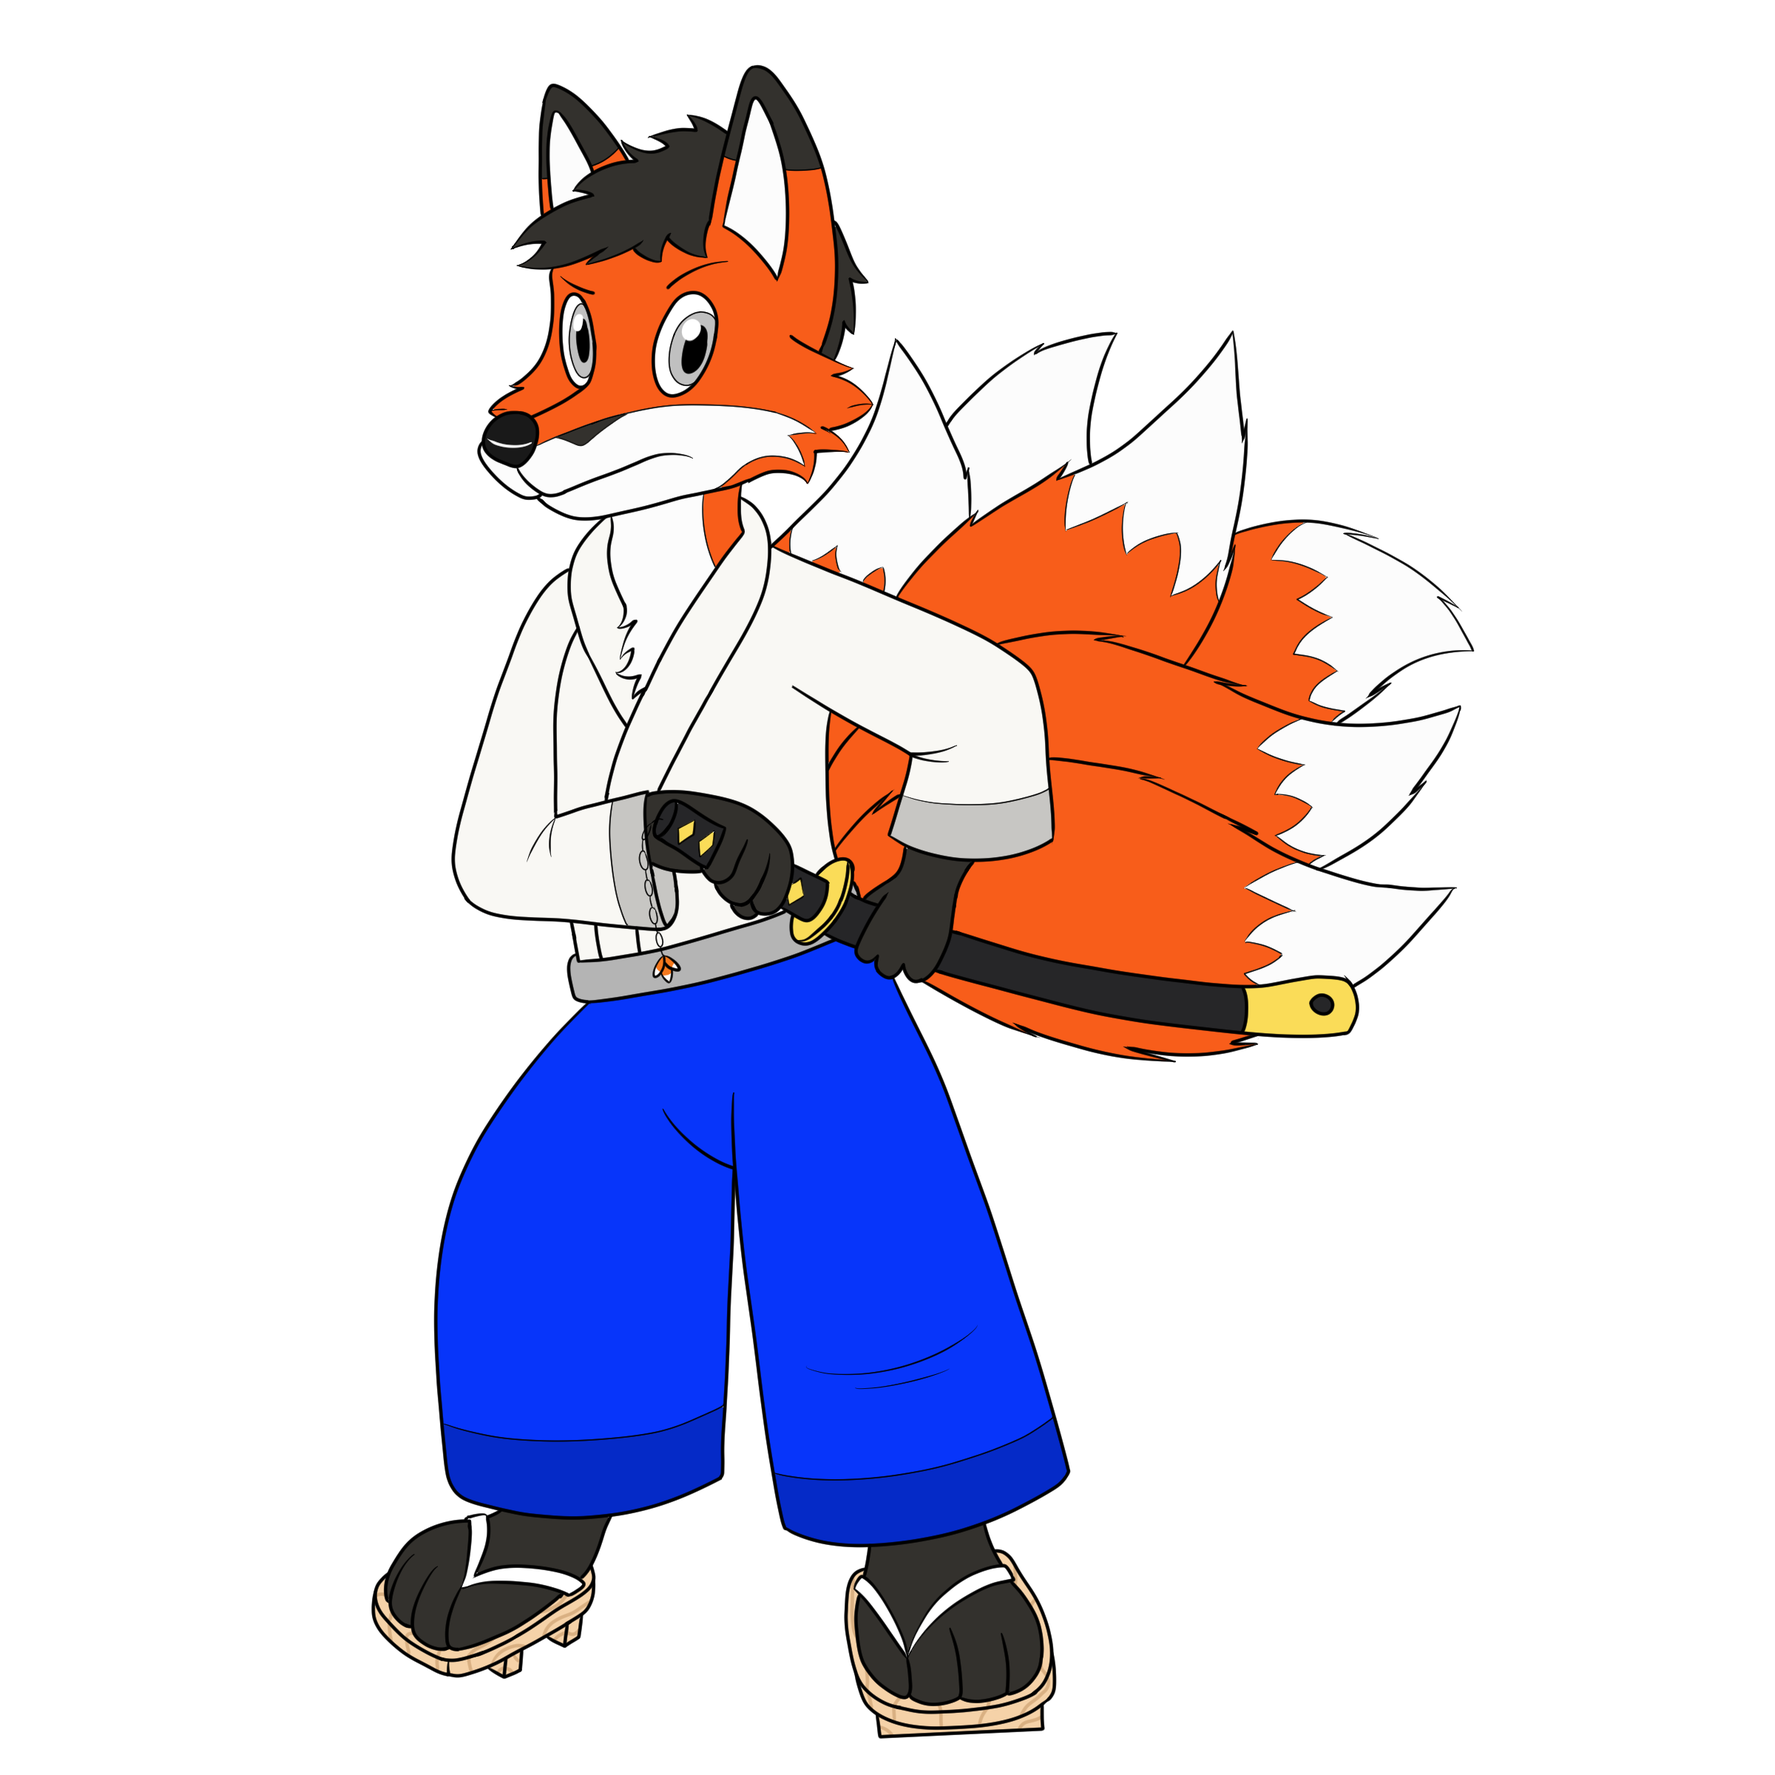
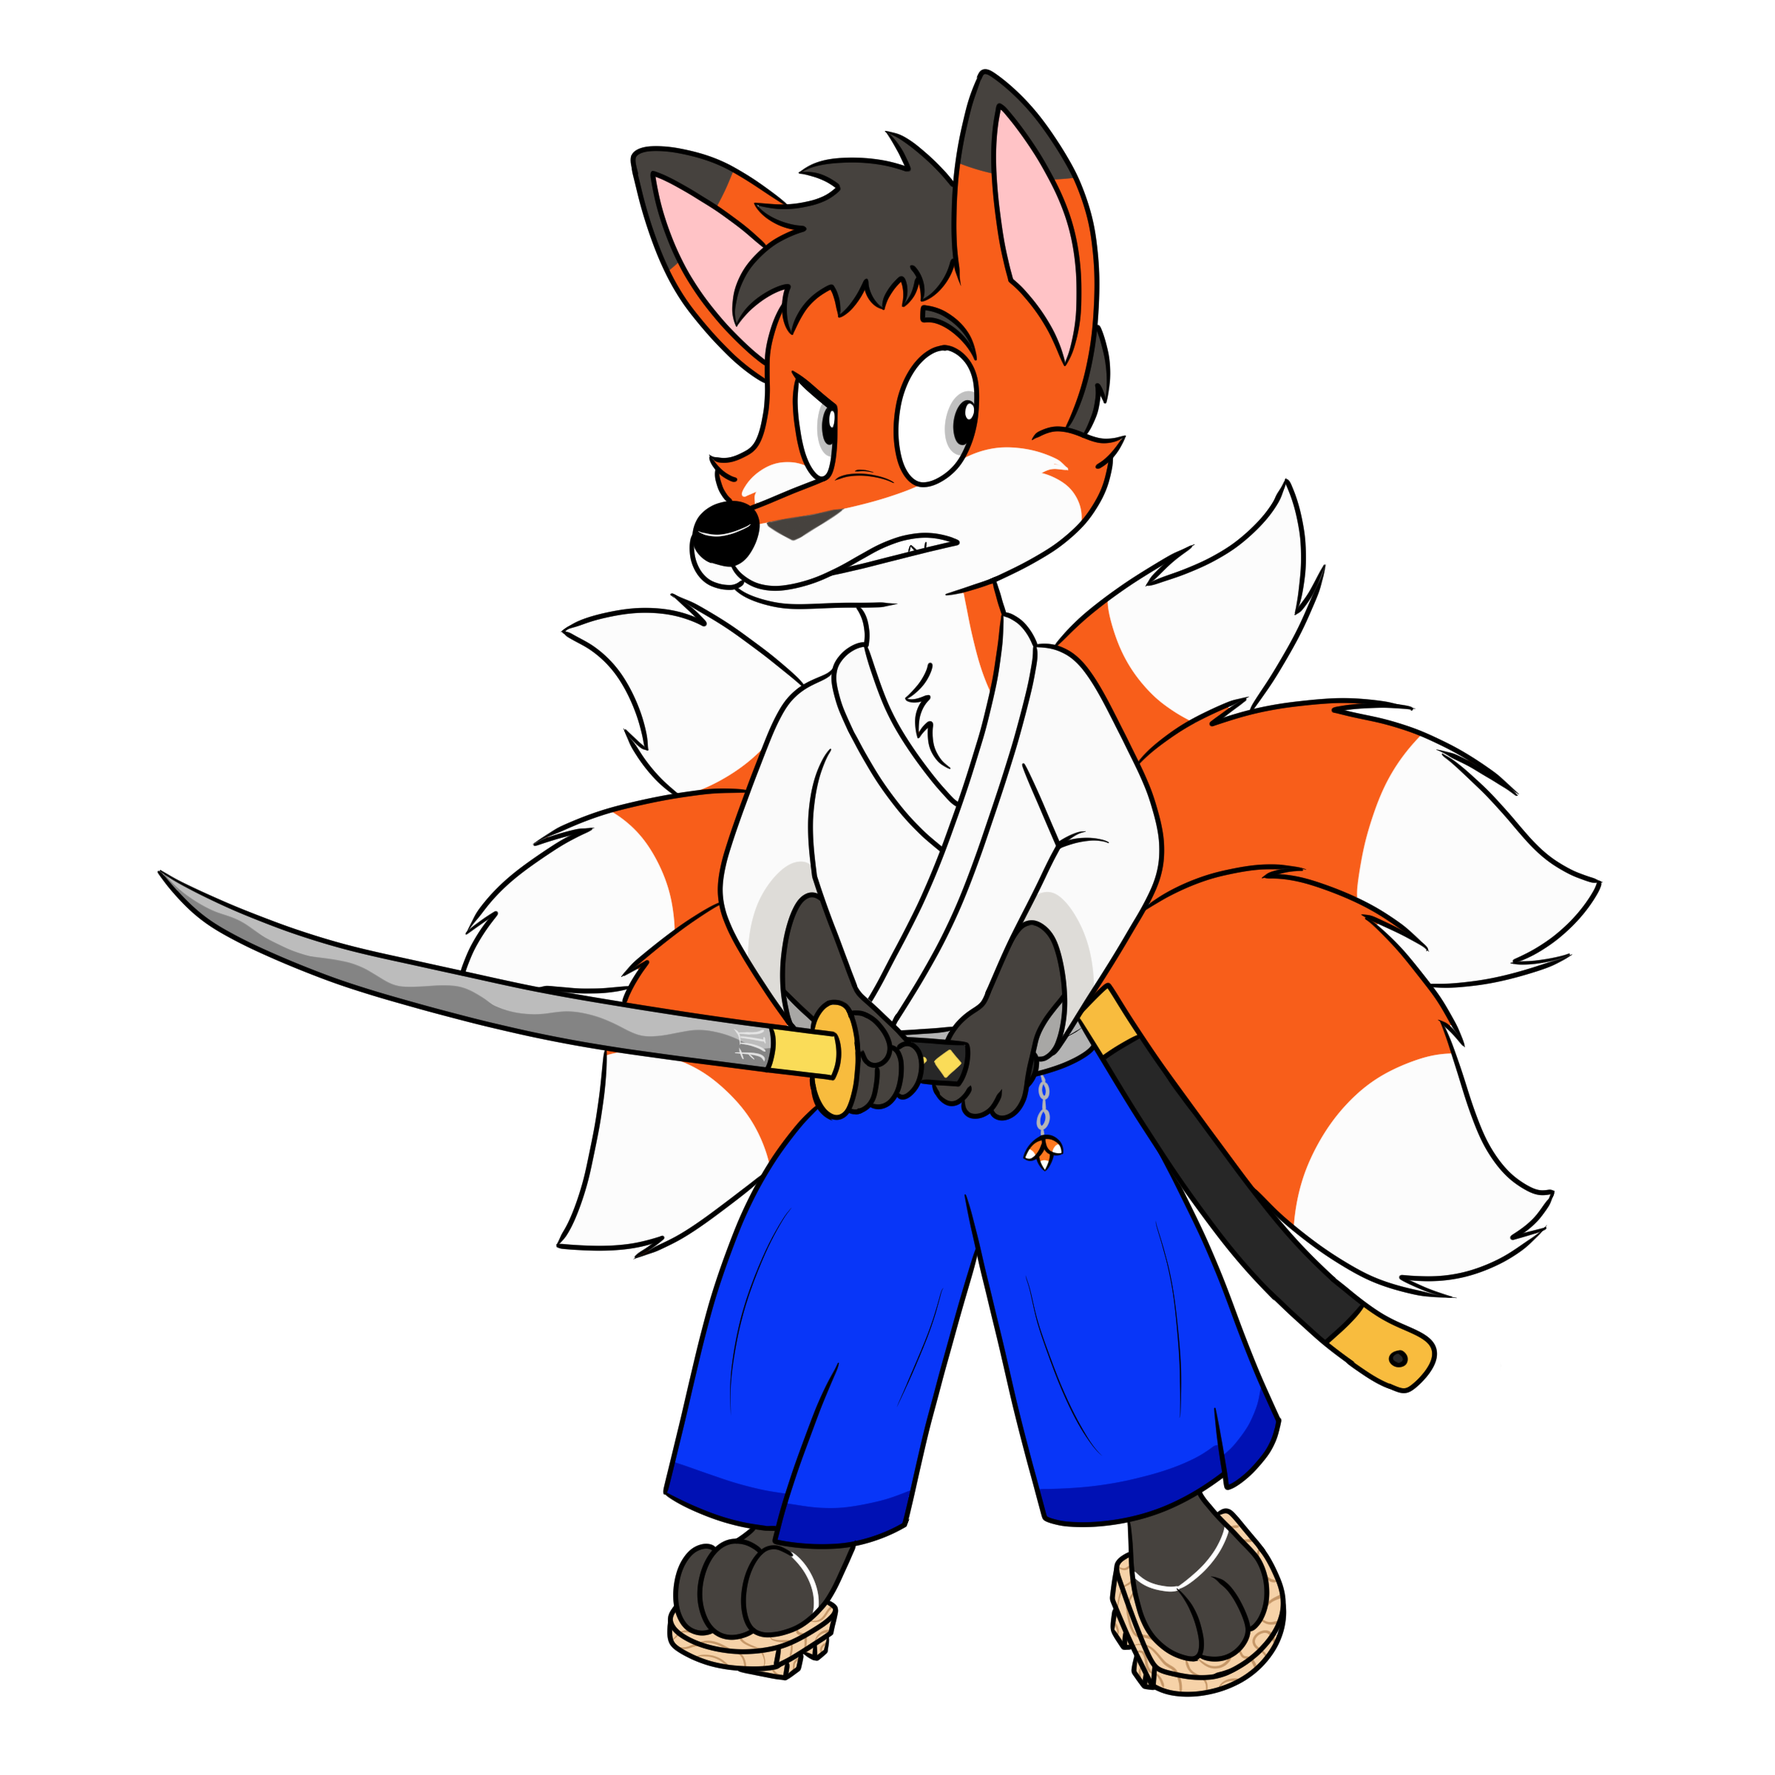
Added character page for Foxblade and fixed an issue on Pyrrhe's character page

diff --git a/src/main/resources/html/characters/foxblade.html b/src/main/resources/html/characters/foxblade.html
@@ -1,0 +1,195 @@
+<!DOCTYPE html>
+<html>
+<head lang="en">
+    <title>Meet Foxblade - Chase the Fox</title>
+    <meta http-equiv="content-type" content="text/html; charset=UTF-8">
+    <link rel="shortcut icon" href="../favicon.ico" type="image/x-icon">
+    <link rel="icon" href="../favicon.ico" type="image/x-icon">
+    <link rel="stylesheet" type="text/css" href="../../css/main_theme.css">
+    <link rel="stylesheet" type="text/css" href="../../css/chase_style.css">
+    <link rel="stylesheet" type="text/css" href="../../css/speech_bubble.css">
+    <link href='http://fonts.googleapis.com/css?family=Lobster' rel='stylesheet' type='text/css'>
+    <link href='http://fonts.googleapis.com/css?family=Ubuntu' rel='stylesheet' type='text/css'>
+    <script src="https://ajax.googleapis.com/ajax/libs/jquery/2.1.4/jquery.min.js" type="text/javascript"></script>
+    <script src="../../js/sidebar.js" type="text/javascript"></script>
+    <script src="../../js/character_select.js" type="text/javascript"></script>
+</head>
+<body>
+<div id="header">
+    <div id="header-text">
+        <img src="../../img/c-tail-transparent.png" alt="C" height="50px"><span class="white-text">hase the Fox</span>
+    </div>
+    <div id="header-links">
+        <ul>
+            <li><a href="https://twitter.com/ChaseTheRedFox"><img src="../../img/twitter_logo.png" alt="Twitter"></a></li>
+            <li><a href="http://www.furaffinity.net/user/chasereynard/"><img src="../../img/fa_logo.png" alt="FurAffinity"></a></li>
+            <li><a href="https://chasereynard.deviantart.com/"><img src="../../img/da_logo.png" alt="DeviantArt"></a></li>
+        </ul>
+    </div>
+    <div id="header-img">
+        <a href="../index.html">
+            <img class="circular-image" src="../../img/chase_header.jpg" alt="Home">
+        </a>
+    </div>
+    <div id="navigation">
+        <ul>
+            <li><a class="nav-button" href="../characters/characters.html">Characters</a></li>
+            <li><a class="nav-button" href="../world/index.html">World</a></li>
+            <li><a class="nav-button" href="../fun/index.html">Fun Things</a></li>
+            <li><a class="nav-button" href="../contact.html">Contact</a></li>
+        </ul>
+    </div>
+</div>
+<div id="main-body">
+    <div id="sidebar" class="active">
+        <div id="sub-navigation">
+            <ul id="sub-navigation-list"></ul>
+        </div>
+    </div>
+    <div id="content">
+        <div class="divider">
+            <div class="content">
+                <p class="speech-bubble">Does someone need my help?</p>
+                <div class="character-info">
+                    <div class="character-image">
+                        <img src="../../img/foxblade.png" alt="Image of Foxblade the Kitsune" class="character">
+                    </div>
+                    <p>
+                        <strong>Full name:</strong> Noboru "Foxblade" Hayashi<br>
+                        <strong>Species:</strong> <a href="../world/bestiary/kitsune.html">Kitsune</a> (<em>Vulpes kitsune</em>)<br>
+                        <strong>Gender:</strong> Male<br>
+                        <strong>Lifetime:</strong> Born in 879 CE, date of death unknown<br>
+                        <strong>Height:</strong> 3' 10" (1.17 m)<br>
+                        <strong>Occupation:</strong> Samurai, Mercenary<br>
+                        <strong>Favorite Color:</strong> Silver<br>
+                        <strong>Favorite Food:</strong> Sushi<br>
+                        <strong>Likes:</strong> helping others, herbal remedies, cool attack names<br>
+                        <strong>Dislikes:</strong> disruptions, being treated like a kid, the forces of evil
+                    </p>
+                    <p>
+                        <strong>Character Traits:</strong>
+                        Foxblade is eager to help others. He will step out of his own way to aid someone in need.
+                        Nevertheless, it is also one of his greatest faults; he is more than willing to drop something
+                        important if it means helping another person. It's also how he ends up in a modicum of trouble
+                        as well. In his years as a young warrior, he hated being looked down upon for being a novice.
+                        Every fight he lost came with an excuse, but it also came with a fiery passion to improve his
+                        skills. He was also fascinated with giving his weapons and spells interesting names. As Foxblade
+                        aged he grew wiser and calmer. As a veteran samurai, he became more interested in passing down
+                        his skills to others. In the end, his motivation to help others still fueled his actions.
+                    </p>
+                    <p>
+                        <strong>Abilities: </strong>
+                        Foxblade knows some light, space, and spirit magic. As with most kitsunes in the late
+                        <a href="../world/history.html">Pre-Cataclysmic Era</a>, his mana pool and magic powers
+                        increased as he passed the Eight Trials and gained more tails. His most commonly used spells
+                        include:
+                        <ul>
+                            <li>Fox Fire: A ranged spirit-based spell that hurls an orb of soulfire at an enemy.</li>
+                            <li>Lantern Light: A light-based spell that summons a burst of light from the kitsune's
+                                "lantern". The spell becomes stronger based on the soul used to create the lantern.
+                            </li>
+                            <li>Conjure Weapon/Armor: A space-based spells that generates a weapon or piece of armor out
+                                of pure mana. The weapon or armor lasts until dispelled, either by the user or an
+                                opposing disruptive spell.
+                            </li>
+                        </ul>
+                    </p>
+                    <p>
+                        <strong>Skills: </strong>
+                        Foxblade has skills with several different weapons, including swords, polearms, and bows.
+                        Additionally, he has some knowledge of herbal remedies; however, this skill is fairly limited
+                        and is only useful in minor situations such as first aid.
+                    </p>
+                    <p>
+                        <strong>Story:</strong>
+                        Noboru was born in an age when all kitsunes were no longer living in Casarok due to the
+                        Culling of the Kitsune. He was born under four stars, a sign of death that left elder kitsune
+                        scratching their heads. His grandfather, one such elder kitsune, suggested that the boy be
+                        raised as an ordinary fox in the remote Escanina Islands of Casarok to avoid any ill fate that
+                        may befall the rest of the kitsune in <a href="../world/pantheon.html">Mother</a>'s Realm. His
+                        parents reluctantly agreed to these terms and left for the islands. Unfortunately, Noboru's
+                        parents mysteriously disappeared when they brought him back to Casarok. The other kistune feared
+                        they were dead and that this was the warning given by the four stars. In their stead, his
+                        grandfather offered to raise him.
+                    </p>
+                    <div class="character-image-left">
+                        <img src="../../img/foxblade_veteran.png" alt="Foxblade, Grizzled Veteran" class="character">
+                    </div>
+                    <p>
+                        As a child, Noboru was interested in medicine and worked a little under the tutelage of the
+                        local doctor. He learned some medical skills and was happy with this chosen path. Nonetheless,
+                        his grandfather, knowing his true heritage, wanted him to ascend the path of the warrior. Noboru
+                        resented his grandfather for pushing him in this direction. His grandfather was harsh about it,
+                        and he eventually began learning more about how to fight and less about medicine. When he came
+                        of age, Noboru was sent off to an academy to learn the ways of a warrior. It was during this
+                        time he adopted the name Foxblade as his "warrior name".
+                    </p>
+                    <p>
+                        Upon his return to his home island, Foxblade found the whole place burning to the ground.
+                        Everyone and everything on the once peaceful island was dead and destroyed. It all had been done
+                        at the hands of one of the lackeys of Blackfox, who at the time was the Champion of Ragnarok.
+                        After fighting and defeating the henchman, he was left with a cursed wound. He went back to the
+                        mainland to receive medical attention for this wound. At the hospital, he met a young magical
+                        student from a local magic academy by the name of Morris Mouskawicz that dispelled the curse. He
+                        was studying magical history, particularly that of the once great kitsune of Casarok. Noticing
+                        something special about the young warrior, Morris brought Foxblade to an old kitsune shrine.
+                        It was at this location that Foxblade attained his favored sword, the Inori Subarashi. This
+                        katana was forged by the Inori kitsune family and branded with a rune such that only kitsune
+                        could wield it. It was in this manner that Foxblade learned of his true heritage.
+                    </p>
+                    <p>
+                        In the years that followed, Foxblade and Morris would travel the world to complete the Eight
+                        Trials. Foxblade would earn his nine tails and Morris would document the whole trip for his own
+                        personal studies. Along the way they assembled a crew that would follow along on their journey
+                        for various reasons. In the end, Foxblade would become a true nine-tailed kitsune. Blackfox,
+                        after much antagonizing of the young kitsune during his travels, reached out to him at this time
+                        and enticed Foxblade with more power. Blackfox offered him a role beside him fighting for
+                        Ragnarok as something monumental was about to happen. Foxblade refused and his group escaped the
+                        clutches of the dark Champion.
+                    </p>
+                    <p>
+                        Suddenly, everything had become much different for the young kitsune warrior. His group
+                        attempted to thwart the beginning of the War of the Gods. They failed to do so in the end.
+                        Regardless, it is said that Foxblade ultimately defeated Blackfox near the start of the war.
+                    </p>
+                    <p>
+                        Foxblade eventually lent his skills to <a href="pyrrhe.html">Pyrrhe Drake</a> and his mercanary
+                        group, the Beasts of the Blade. Rather than taking a key role among the band of mercenaries, he
+                        instead offered to help train others. Once in a while, he would involve himself in a fight as
+                        the War of the Gods raged on and the Great Cataclysm occurred. For the most part, he took a
+                        back seat and let the others write the history books instead.
+                    </p>
+                    <p>
+                        After the War of the Gods ended, Foxblade was instrumental to reintroducing the kitsune to
+                        Casarok. Devoid of their divine power, he helped the rest of the kitsune adapt to their lives in
+                        the new Casarok.
+                    </p>
+                    <p>
+                        Foxblade's death is undocumented. It seems that he completely disappeared from the history books
+                        as the kitsune repopulated their species in Casarok. As a nine-tailed kitsune, he was immortal.
+                        However, it is unknown if that power remained extended to him or if he became mortal again as
+                        the rest of the kitsune were.
+                    </p>
+                </div>
+            </div>
+        </div>
+    </div>
+</div>
+<div id="footer">
+    <div id="footer-credits">
+        Character, concepts, and site coding by <a href="https://twitter.com/ChaseTheRedFox" target="_blank">Chase the Fox</a><br>
+        Banner illustration by <a href="http://www.betsythebeaver.com" target="_blank">Betsy the Beaver</a><br>
+        &copy; 2015-2019 Chase the Fox
+    </div>
+    <div id="footer-navigation">
+        <ul>
+            <li><a class="nav-button" href="../index.html">Home</a></li> |
+            <li><a class="nav-button" href="../characters/characters.html">Characters</a></li> |
+            <li><a class="nav-button" href="../world/index.html">World</a></li> |
+            <li><a class="nav-button" href="../fun/index.html">Fun Things</a></li> |
+            <li><a class="nav-button" href="../contact.html">Contact</a></li>
+        </ul>
+    </div>
+</div>
+</body>
+</html>

diff --git a/src/main/resources/html/characters/pyrrhe.html b/src/main/resources/html/characters/pyrrhe.html
@@ -60,7 +60,7 @@
                         <strong>Species:</strong> <a href="../world/bestiary/dracamma.html">Dracamma</a> (<em>Draco ignis</em>)<br>
                         <strong>Gender:</strong> Male<br>
                         <strong>Lifetime:</strong> 784-1106 CE<br>
-                        <strong>Height:</strong> 4' 2" (1.04 m)<br>
+                        <strong>Height:</strong> 4' 2" (1.27 m)<br>
                         <strong>Occupation:</strong> Knight, Mercenary, Champion of <a href="../world/pantheon.html">Tianlong</a><br>
                         <strong>Favorite Color:</strong> Red<br>
                         <strong>Favorite Food:</strong> Red meat<br>

diff --git a/src/main/resources/html/characters/characters.html b/src/main/resources/html/characters/characters.html
@@ -116,6 +116,11 @@
                                 <img src="../../img/pyrrhe_full.png" alt="Image of Pyrrhe the Dracamma">Pyrrhe
                             </a>
                         </div>
+                        <div>
+                            <a href="foxblade.html">
+                                <img src="../../img/foxblade.png" alt="Image of Foxblade the Kitsune">Foxblade
+                            </a>
+                        </div>
                     </div>
                 </div>
             </div>

diff --git a/src/main/resources/js/character_select.js b/src/main/resources/js/character_select.js
@@ -68,6 +68,11 @@ $(document).ready(function() {
             type: "link",
             href: "pyrrhe.html",
             text: "Pyrrhe"
+        },
+        {
+            type: "link",
+            href: "foxblade.html",
+            text: "Foxblade"
         }
     ]);
 
